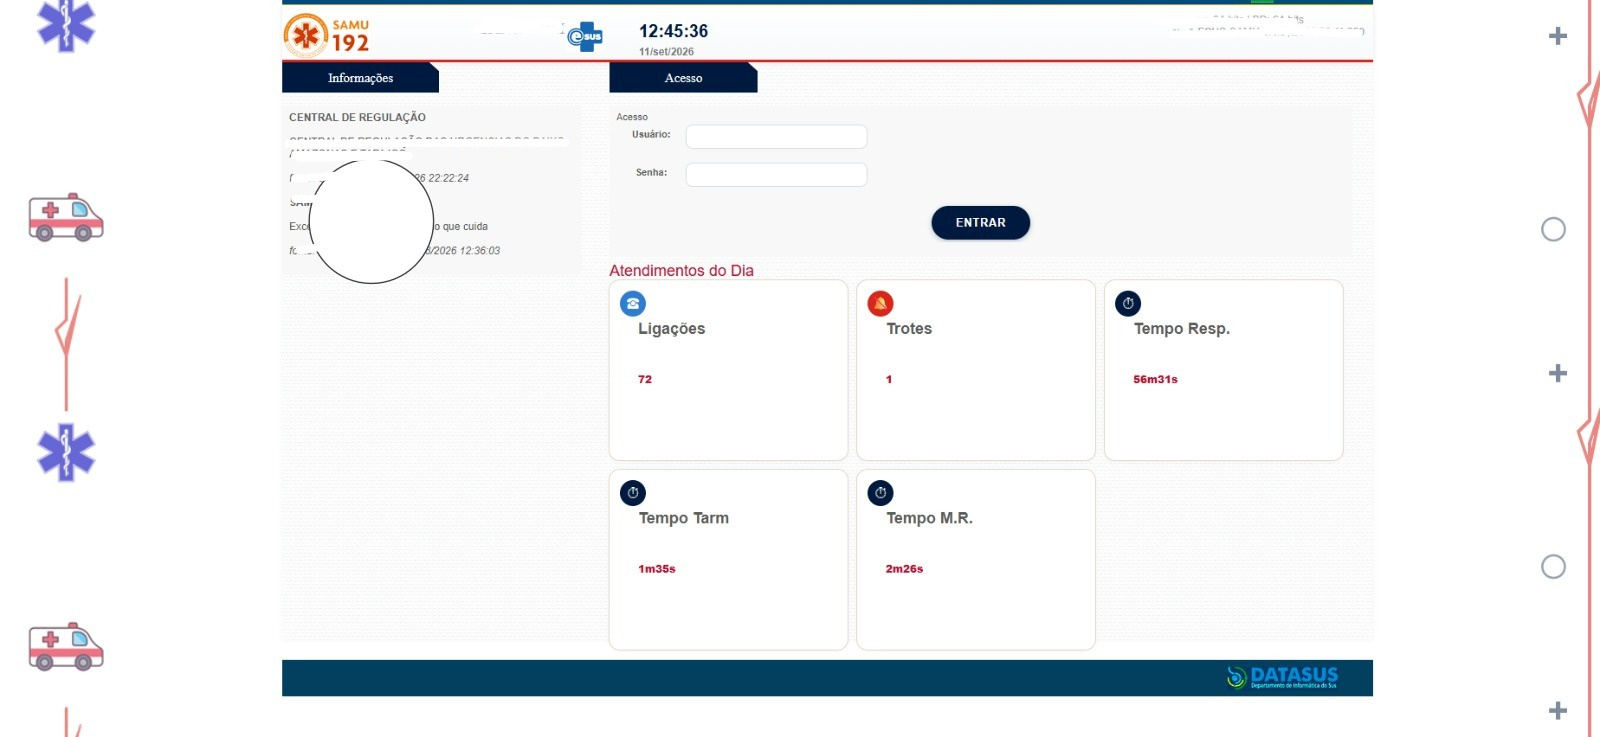
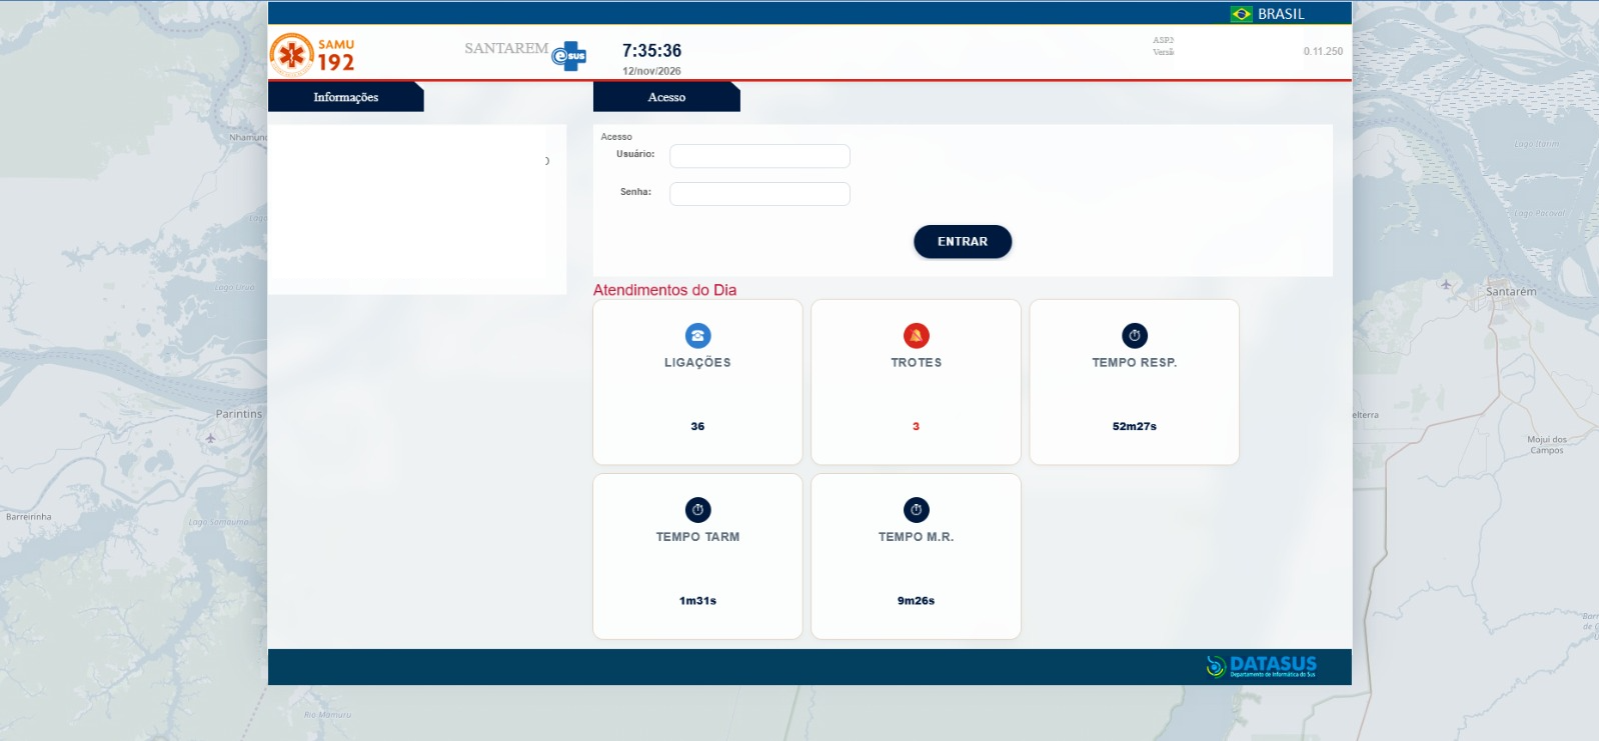
Adiciona serviços Radar Tapajós e Égua do KM; atualiza prints de frota e e-SUS

diff --git a/index.html b/index.html
@@ -304,10 +304,10 @@
       </div>
 
       <div class="slide">
-        <div class="slide-img"><img src="imagens/GPS.jpeg" alt="Rastreamento e Frota"></div>
+        <div class="slide-img"><img src="imagens/dashboard%20painel.png" alt="Painel de rastreamento da frota SAMU"></div>
         <div class="slide-body">
           <h3>Rastreamento e Frota</h3>
-          <p>Gestão da plataforma de rastreamento veicular da frota do SAMU, garantindo localização em tempo real e suporte às equipes de emergência.</p>
+          <p>Painel em tempo real da frota de ambulâncias do SAMU na região do Tapajós, com identificação por base e viatura para apoio à regulação.</p>
           <div class="tags">
             <span class="tag">Traccar</span><span class="tag">GPS</span><span class="tag">SAMU</span>
           </div>
@@ -318,7 +318,7 @@
         <div class="slide-img"><img src="imagens/esus.jpeg" alt="Ecossistema de Saúde"></div>
         <div class="slide-body">
           <h3>Ecossistema de Saúde</h3>
-          <p>Suporte técnico e administração dos sistemas e-SUS SAMU e do Sistema de Tratamento Fora de Domicílio (TFD), assegurando continuidade do atendimento.</p>
+          <p>Administração do e-SUS SAMU 192 Santarém (ligações, trotes e tempos de resposta em tempo real) e do sistema de Tratamento Fora de Domicílio (TFD).</p>
           <div class="tags">
             <span class="tag">e-SUS</span><span class="tag">TFD</span><span class="tag">Saúde Pública</span>
           </div>
@@ -343,6 +343,28 @@
           <p>Desenvolvimento e manutenção da intranet do CRU e de sistema de gestão financeira, automatizando processos internos com N8N e Python.</p>
           <div class="tags">
             <span class="tag">Intranet</span><span class="tag">Automação</span><span class="tag">N8N</span>
+          </div>
+        </div>
+      </div>
+
+      <div class="slide">
+        <div class="slide-img"><img src="imagens/01-landing-desktop.png" alt="Radar Tapajós"></div>
+        <div class="slide-body">
+          <h3>Radar Tapajós</h3>
+          <p>Plataforma de acompanhamento ao vivo de embarcações no Tapajós: horários, partidas e chegadas, encomendas e botão de emergência SOS em mapa 3D.</p>
+          <div class="tags">
+            <span class="tag">Web App</span><span class="tag">Mapas 3D</span><span class="tag">Tempo Real</span>
+          </div>
+        </div>
+      </div>
+
+      <div class="slide">
+        <div class="slide-img"><img src="imagens/egua%20do%20km.png" alt="Égua do KM"></div>
+        <div class="slide-body">
+          <h3>Égua do KM</h3>
+          <p>App para motoristas de aplicativo: lê a oferta de corrida na tela e mostra em um segundo se compensa, com R$/km, R$/hora e lucro real.</p>
+          <div class="tags">
+            <span class="tag">Android</span><span class="tag">SaaS</span><span class="tag">WhatsApp</span>
           </div>
         </div>
       </div>
